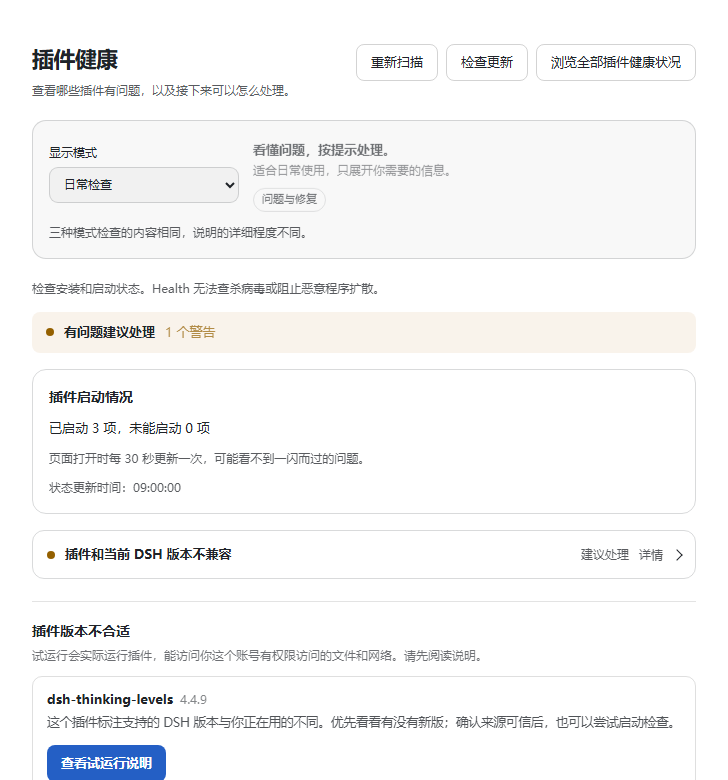
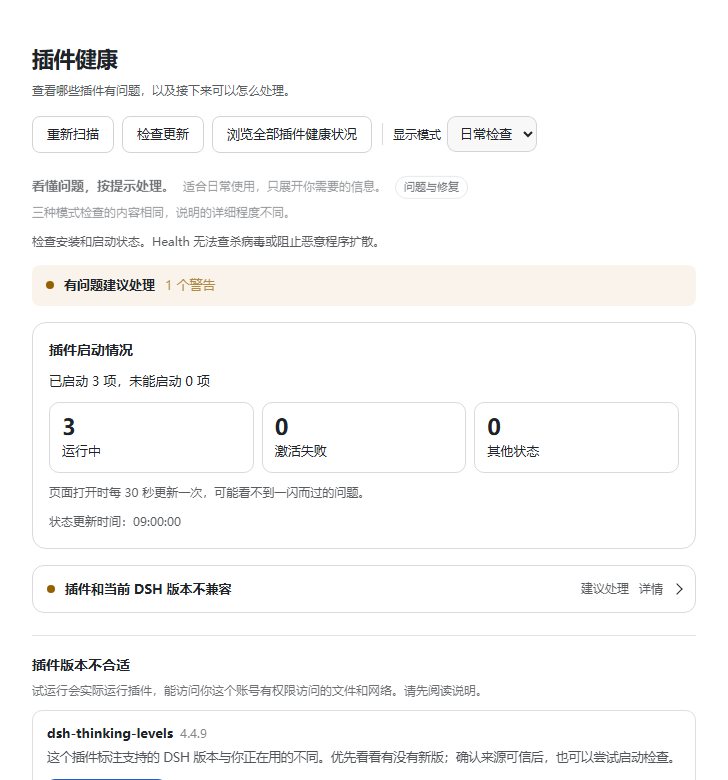
feat(ui): the view control joins the toolbar, and the counters show in every mode
Two things the panel got wrong when it met a real eye.

The mode selector sat in its own tinted card above the content. It is a display
preference, not a section, and the card pushed everything down — on a narrow panel it
took a third of the first screen before the user had seen a single finding. It now
sits at the right of the button row, separated by a hairline, with its description
running underneath as one line.

The three startup counters were advanced-only. A number answers "is anything broken"
faster than a sentence, and the sentence is exactly what a first-time reader has to
decode — so daily mode had the harder text while the easier view had no numbers at
all. The counters now render in all three modes; the per-entry lists stay behind
advanced, because those are the part that needs vocabulary.

The daily-mode test asserted the technical words were absent, which the counters
technically broke. It now asserts what the mode is actually for: no profile names, no
package paths, no version-exemption terms — and that the counters are readable.

Version becomes 3.0.0-beta.5, because beta.4 is already a hash somebody recorded and
shipping different bytes under the same number is how a review covers the wrong code.

diff --git a/src/ui/client.js b/src/ui/client.js
@@ -62,10 +62,20 @@ window.__ModuleLoader__.load({
       .dph-panel .dph-head { display: flex; align-items: start; flex-wrap: wrap; gap: 16px; margin-bottom: 20px; }
       .dph-panel .dph-head-copy { flex: 1 1 250px; }
       .dph-panel .dph-actions { display: flex; flex-wrap: wrap; gap: 8px; align-items: center; }
-      .dph-panel .dph-mode { display: flex; flex-wrap: wrap; gap: 14px; align-items: center; padding: 16px;
-        border: 1px solid var(--dph-line); border-radius: 14px; background: var(--dph-tint); margin-bottom: 20px; }
-      .dph-panel .dph-mode label { display: grid; gap: 5px; font-size: 12px; flex: 0 1 190px; }
-      .dph-panel .dph-mode-copy { flex: 1 1 210px; }
+      .dph-panel .dph-actions-sep { width: 1px; height: 22px; background: var(--dph-line); margin: 0 2px; }
+      /* The description of the current mode sits under the toolbar, not inside it, so the buttons
+         stay on one row and the sentence still has room to wrap. */
+      .dph-panel .dph-mode-copy { margin: 4px 0 12px; display: flex; flex-wrap: wrap; gap: 4px 8px; align-items: baseline; font-size: 12px; }
+      .dph-panel .dph-mode-copy strong { font-size: 13px; }
+      .dph-panel .dph-mode-copy .dph-chips { margin-top: 0; }
+      /* The mode control belongs to the toolbar, not to the page body: a full-width tinted card
+         pushed everything down and read as a section of its own. */
+      .dph-panel .dph-mode { display: flex; flex-wrap: wrap; gap: 8px; align-items: center; }
+      .dph-panel .dph-mode label { display: flex; gap: 6px; align-items: center; font-size: 12px; }
+      .dph-panel .dph-mode select { padding: 6px 8px; font: inherit; font-size: 13px; }
+      .dph-panel .dph-mode-copy { flex: 1 1 100%; font-size: 12px; }
+      .dph-panel .dph-mode-copy strong { font-weight: 600; }
+      .dph-panel .dph-mode-copy p { margin: 2px 0 0; }
       .dph-panel .dph-muted { opacity: .74; font-size: 12px; }
       .dph-panel .dph-chips { display: flex; flex-wrap: wrap; gap: 6px; margin-top: 8px; }
       .dph-panel .dph-chip { border: 1px solid var(--dph-line); border-radius: 99px; padding: 2px 8px; font-size: 11px; }
@@ -1709,9 +1719,11 @@ window.__ModuleLoader__.load({
         h('h3', { key: 'title' }, t('reviewActivation')),
         h('p', { key: 'summary', role: 'status', style: { color: failed.length ? COLORS.error : 'inherit' } },
           t('liveSummary', { active, failed: failed.length })),
-        advanced ? h('div', { key: 'metrics', className: 'dph-metrics', 'aria-hidden': true },
+        // Shown in every mode. A number answers "is anything broken" faster than a sentence, and
+        // the sentence is exactly what a first-time reader has to decode.
+        h('div', { key: 'metrics', className: 'dph-metrics' },
           [[active, 'liveActive'], [failed.length, 'liveFailed'], [others.length - active, 'liveWaiting']].map(([count, label]) =>
-            h('div', { key: label, className: 'dph-metric' }, [h('strong', { key: 'count' }, count), t(label)]))) : null,
+            h('div', { key: label, className: 'dph-metric' }, [h('strong', { key: 'count' }, count), t(label)]))),
         failed.map(row => h('div', { key: row.id, className: 'dph-failed' }, [
           h('strong', { key: 'name' }, row.name),
           advanced ? h('div', { key: 'id', className: 'dph-muted' }, `${row.id} · ${stateName(row.state)}`) : null,
@@ -1907,25 +1919,34 @@ window.__ModuleLoader__.load({
             // The compatibility table is the most useful thing this project publishes when nothing
             // is wrong locally, so it gets a first-class control rather than a line buried in prose.
             h(PanelButton, { key: 'all', href: COMPAT_URL, label: t('browseAll') }),
+            // The view control lives with the actions: it selects what the page shows. A separate
+            // tinted card above the content made it look like a section of its own and pushed the
+            // panel down for something that is a display preference.
+            h('span', { key: 'sep', className: 'dph-actions-sep', 'aria-hidden': true }),
+            h('div', { key: 'view', className: 'dph-mode' }, [
+              h('label', { key: 'label' }, [t('viewLabel'),
+                h('select', {
+                  key: 'select',
+                  value: view,
+                  'aria-label': t('viewLabel'),
+                  onChange: (event) => {
+                    const next = event.target.value
+                    if (!VIEWS.includes(next)) return
+                    setView(next)
+                    try { window.localStorage.setItem(VIEW_KEY, next) } catch { /* Session-only fallback. */ }
+                  },
+                }, VIEWS.map(mode => h('option', { key: mode, value: mode }, t('view.' + mode)))),
+              ]),
+            ]),
           ]),
         ]),
-        h('div', { key: 'view', className: 'dph-mode' }, [
-          h('label', { key: 'label' }, [t('viewLabel'),
-          h('select', { key: 'select', value: view, 'aria-label': t('viewLabel'), onChange: (event) => {
-            const next = event.target.value
-            if (!VIEWS.includes(next)) return
-            setView(next)
-            try { window.localStorage.setItem(VIEW_KEY, next) } catch { /* Session-only fallback. */ }
-          } }, VIEWS.map(mode => h('option', { key: mode, value: mode }, t(`view.${mode}`)))),
-          ]),
-          h('div', { key: view, className: 'dph-mode-copy dph-enter', role: 'status' }, [
-            h('strong', { key: 'task' }, t(`viewTask.${view}`)),
-            h('p', { key: 'hint', className: 'dph-muted' }, t(`viewHint.${view}`)),
-            h('div', { key: 'chips', className: 'dph-chips' },
-              ['chipIssues', ...(advanced ? ['chipRuntime', 'chipPreview'] : []), ...(view === 'developer' ? ['chipEvidence'] : [])]
-                .map(key => h('span', { key, className: 'dph-chip' }, t(key)))),
-          ]),
-          h('p', { key: 'scope', className: 'dph-muted', style: { flexBasis: '100%' } }, t('modeScope')),
+        h('div', { key: 'viewcopy', className: 'dph-mode-copy dph-enter', role: 'status' }, [
+          h('strong', { key: 'task' }, t('viewTask.' + view)),
+          h('span', { key: 'hint', className: 'dph-muted' }, ' ' + t('viewHint.' + view)),
+          h('span', { key: 'chips', className: 'dph-chips' },
+            ['chipIssues', ...(advanced ? ['chipRuntime', 'chipPreview'] : []), ...(view === 'developer' ? ['chipEvidence'] : [])]
+              .map(key => h('span', { key, className: 'dph-chip' }, t(key)))),
+          h('span', { key: 'scope', className: 'dph-muted' }, ' ' + t('modeScope')),
         ]),
         h('p', { key: 'security-scope', className: 'dph-muted', style: { marginBottom: 14 } }, t('securityScope')),
         // Only speak up when there is something to do. A permanent "up to date" line trains people

diff --git a/test/client-locale.test.js b/test/client-locale.test.js
@@ -236,7 +236,10 @@ test('audience wording changes without hiding failures or implying malware prote
   app.setLocale('zh'); app.render(); await settle()
   let tree = app.render()
   assert.match(text(tree), /插件启动情况.*未能启动 1 项.*功能名称「search」被重复使用/u)
-  assert.doesNotMatch(text(tree), /宿主|激活失败|注册|Profile|package\.json|版本豁免/u)
+  // The counters are visible in every mode now, by design. What daily mode still must not show is
+  // the technical vocabulary: profile names, package paths, version-exemption terms.
+  assert.match(text(tree), /\u8fd0\u884c\u4e2d/u, 'the counters are readable in daily mode')
+  assert.doesNotMatch(text(tree), /\u5bbf\u4e3b|Profile|package\.json|\u7248\u672c\u8c41\u514d/u)
   for (const mode of ['daily', 'advanced', 'developer']) {
     find(app.render(), node => node.type === 'select').props.onChange({ target: { value: mode } })
     tree = app.render()

diff --git a/docs/README.zh.md b/docs/README.zh.md
@@ -15,7 +15,7 @@
 执行插件代码，不能用来安全试跑未知软件。详见 [Health 能力边界](../SECURITY.md#malware-containment-is-not-implemented)
 及 [DSH 官方安全说明](https://github.com/deepseek-ai/deepseek-harness/blob/master/SAFETY.md)。
 
-> 源码候选版：`3.0.0-beta.4`。下方的 npm 安装命令使用已发布的版本。索引由官方发布的
+> 源码候选版：`3.0.0-beta.5`。下方的 npm 安装命令使用已发布的版本。索引由官方发布的
 > `@deepseek-ai/dsh-plugin-market-index` 校验器验证。
 
 ```sh

diff --git a/README.md b/README.md
@@ -18,7 +18,7 @@ Startup checks execute plugin code with your account permissions and cannot safe
 software. Read [Health's security boundaries](SECURITY.md#malware-containment-is-not-implemented)
 and the [official DSH safety notice](https://github.com/deepseek-ai/deepseek-harness/blob/master/SAFETY.md).
 
-> Source candidate: `3.0.0-beta.4`. The registry install below follows the published npm release.
+> Source candidate: `3.0.0-beta.5`. The registry install below follows the published npm release.
 
 ```sh
 npm install -g dsh-plugin-health
